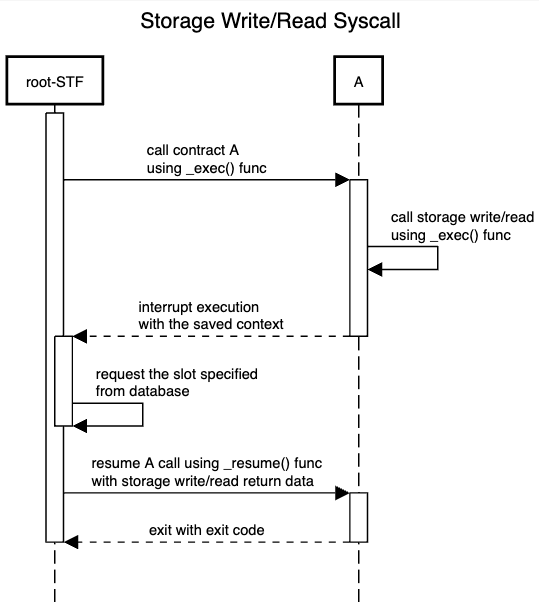
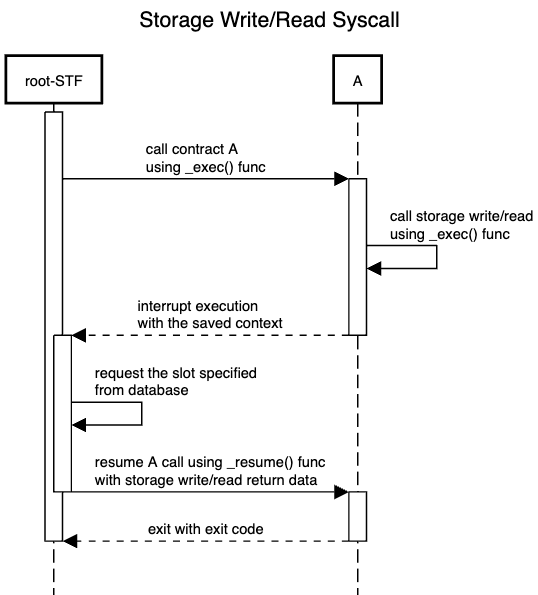
refactored pages, added system bindings section

Changed region(s): [[0.0, 0.0908, 1.0, 1.0], [0.2677, 0.0, 0.7435, 0.0605], [0.2677, 0.8773, 0.5948, 0.9076]]

diff --git a/src/architecture/system-bindings.md b/src/architecture/system-bindings.md
@@ -1,0 +1,103 @@
+# System Bindings
+
+A collection of system functions provides access to low-level operations,
+serving both our VM runtime and our circuit definitions.
+Each system function is replaced with a specialized ZK-gadget to speed up the proving process.
+These functions can include hashing algorithms, I/O operations, and nested call functions.
+
+> **WARNING**: The system functions API/ABI are still under development and may change in the future.
+
+```rust
+#[link(wasm_import_module = "fluentbase_v1preview")]
+extern "C" {
+    /// Functions that provide access to crypto elements, right now we support following:
+    /// - Keccak256
+    /// - Poseidon (two modes, message hash and two elements hash)
+    /// - Ecrecover
+    pub fn _keccak256(data_offset: *const u8, data_len: u32, output32_offset: *mut u8);
+    pub fn _poseidon(data_offset: *const u8, data_len: u32, output32_offset: *mut u8);
+    pub fn _poseidon_hash(
+        fa32_offset: *const u8,
+        fb32_offset: *const u8,
+        fd32_offset: *const u8,
+        output32_offset: *mut u8,
+    );
+    pub fn _ecrecover(
+        digest32_offset: *const u8,
+        sig64_offset: *const u8,
+        output65_offset: *mut u8,
+        rec_id: u32,
+    );
+
+    /// Basic system methods that are available for every app (shared and sovereign)
+    pub fn _exit(code: i32) -> !;
+    pub fn _write(offset: *const u8, length: u32);
+    pub fn _input_size() -> u32;
+    pub fn _read(target: *mut u8, offset: u32, length: u32);
+    pub fn _output_size() -> u32;
+    pub fn _read_output(target: *mut u8, offset: u32, length: u32);
+    pub fn _forward_output(offset: u32, len: u32);
+    pub fn _state() -> u32;
+    pub fn _read_context(target_ptr: *mut u8, offset: u32, length: u32);
+
+    /// Executes a nested call with specified bytecode poseidon hash.
+    ///
+    /// # Parameters
+    /// - `hash32_ptr`: A pointer to a 254-bit poseidon hash of a contract to be called.
+    /// - `input_ptr`: A pointer to the input data (const u8).
+    /// - `input_len`: The length of the input data (u32).
+    /// - `fuel_ptr`: A mutable pointer to a fuel value (u64), consumed fuel is stored in the same
+    ///   pointer after execution.
+    /// - `state`: A state value (u32), used internally to maintain function state.
+    ///
+    /// Fuel ptr can be set to zero if you want to delegate all remaining gas.
+    /// In this case sender won't get consumed gas result.
+    ///
+    /// # Returns
+    /// - An `i32` value indicating the result of the execution,
+    /// negative or zero result stands for terminated execution,
+    /// but positive code stands for interrupted execution (works only for root execution level)
+    pub fn _exec(
+        hash32_ptr: *const u8,
+        input_ptr: *const u8,
+        input_len: u32,
+        fuel_ptr: *mut u64,
+        state: u32,
+    ) -> i32;
+
+    /// Resumes the execution of a previously suspended function call.
+    ///
+    /// This function is designed to handle the resumption of a function call
+    /// that was previously paused.
+    /// It takes several parameters that provide
+    /// the necessary context and data for resuming the call.
+    ///
+    /// # Parameters
+    ///
+    /// * `call_id` - A unique identifier for the call that needs to be resumed.
+    /// * `return_data_ptr` - A pointer to the return data that needs to be passed back to the
+    ///   resuming function.
+    /// This should point to a byte array.
+    /// * `return_data_len` - The length of the return data in bytes.
+    /// * `exit_code` - An integer code that represents the exit status of the resuming function.
+    ///   Typically, this might be 0 for success or an error code for failure.
+    /// * `fuel_ptr` - A mutable pointer to a 64-bit unsigned integer representing the fuel need to
+    ///   be charged, also it puts a consumed fuel result into the same pointer
+    pub fn _resume(
+        call_id: u32,
+        return_data_ptr: *const u8,
+        return_data_len: u32,
+        exit_code: i32,
+        fuel_ptr: *mut u64,
+    ) -> i32;
+
+    pub fn _charge_fuel(delta: u64) -> u64;
+    pub fn _fuel() -> u64;
+
+    /// Journaled ZK Trie methods to work with blockchain state
+    pub fn _preimage_size(hash32_ptr: *const u8) -> u32;
+    pub fn _preimage_copy(hash32_ptr: *const u8, preimage_ptr: *mut u8);
+
+    pub fn _debug_log(msg_ptr: *const u8, msg_len: u32);
+}
+```

diff --git a/src/SUMMARY.md b/src/SUMMARY.md
@@ -2,13 +2,12 @@
 
 - [Architecture](./architecture/index.md)
   - [Execution Environment](./architecture/execution-environment.md)
-  - [Account Trie](./architecture/account-trie.md)
-  - [State Transition Function](./architecture/state-transition-function.md)
   - [Composability](./architecture/composability.md)
-    - [Address format](./architecture/composability/address-format.md)
-    - [Storage layout](./architecture/composability/storage-layout.md)
-    - [Token transfer](./architecture/composability/token-transfer.md)
+  - [State Transition Function](./architecture/state-transition-function.md)
+  - [Account Trie](./architecture/account-trie.md)
+  - [Address Format](./architecture/address-format.md)
   - [Interruptions](./architecture/interruptions.md)
+  - [System Bindings](./architecture/system-bindings.md)
 - [Fluentbase Framework](./fluentbase/index.md)
 - [rWASM](./rwasm/index.md)
   - [Motivation](./rwasm/motivation.md)

diff --git a/src/architecture/interruptions.md b/src/architecture/interruptions.md
@@ -202,8 +202,8 @@ A-->root-STF:interrupt execution\nwith the saved context
 deactivate A
 activate root-STF
 root-STF->root-STF: request the slot specified\nfrom database
-deactivate root-STF
 root-STF->A: resume A call using _resume() func\nwith storage write/read return data
+deactivate root-STF
 activate A
 A-->root-STF: exit with exit code
 deactivate A

diff --git a/src/architecture/composability.md b/src/architecture/composability.md
@@ -93,3 +93,4 @@ and can only manage basic Ethereum-compatible accounts.
 For instance, **CosmWasm** can be integrated using both approaches.
 In an Isolated EE, the original address format can be maintained,
 while in an Interoperable EE, native composability is achievable.
+
